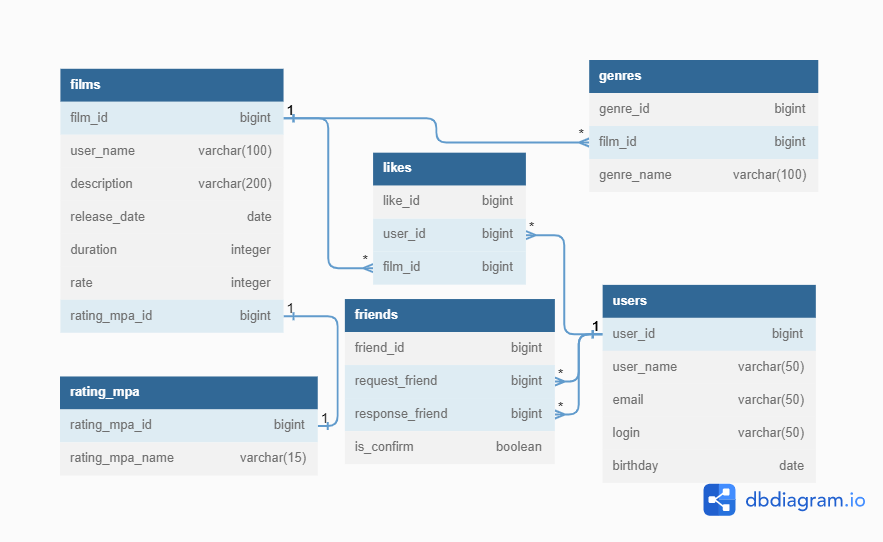
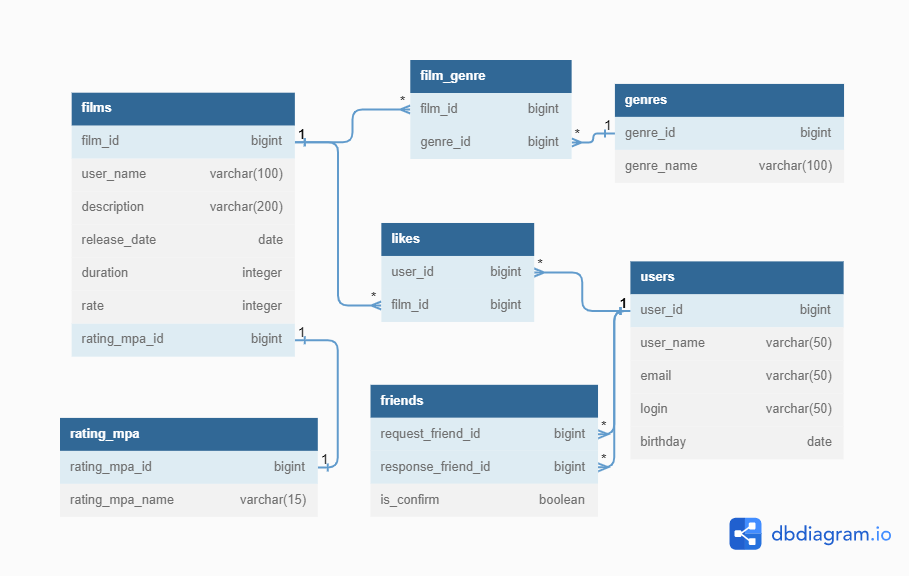
fit: изменены бд и примеры запросов

diff --git a/README.md b/README.md
@@ -52,19 +52,20 @@ SELECT f.film_id,
        COUNT(l.like_id) AS count_likes
 FROM films AS f
 LEFT OUTER JOIN likes AS l ON f.film_id = l.film.id
-ORDER BY films.count_likes DESC
+GROUP BY f.film_id
+ORDER BY count_likes DESC
 LIMIT 10;
 
 -- список общих друзей с другим пользователем
 SELECT f1.response_friend_id
 FROM friends AS f1
-WHERE f1.request_friend = 1
+WHERE f1.request_friend_id = 1
   AND f1.is_confirm = TRUE
   AND f1.response_friend_id IN
     (SELECT response_friend_id
      FROM friends
-     WHERE response_friend_id = 3
+     WHERE request_friend_id = 3
        AND is_confirm = TRUE);
-
+ 
 ```
 ------
